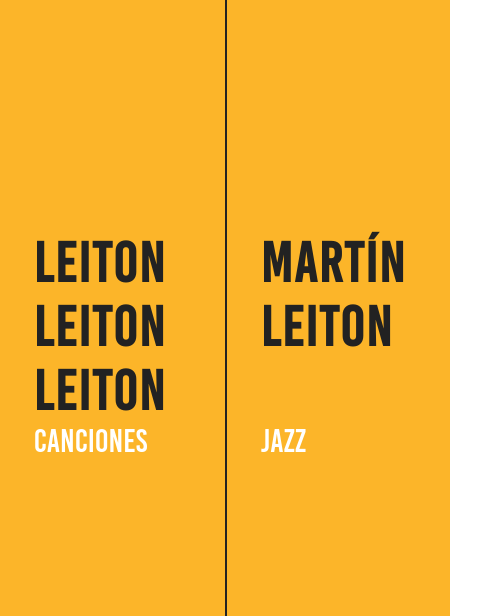
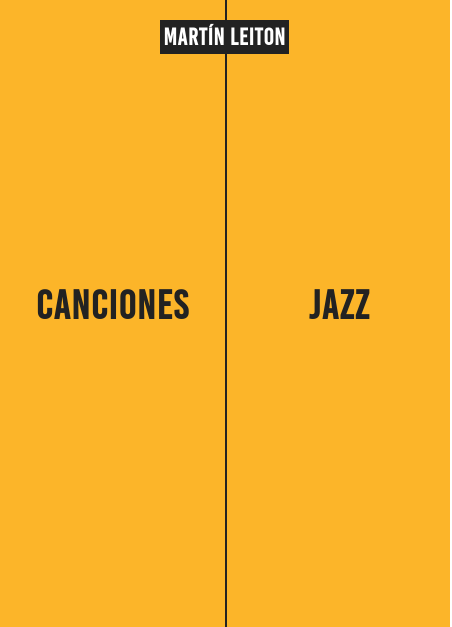
Muestra solo las palabras: canciones y jazz

Changed region(s): [[0.3407, 0.0, 0.8363, 1.0], [0.8982, 0.0, 1.0, 1.0], [0.0619, 0.3701, 0.4336, 0.7403]]

diff --git a/css/main.css b/css/main.css
@@ -2,13 +2,11 @@
 
 @font-face {
   font-family: 'bebas';
-  src: url('../fonts/bebaskai-webfont.woff2') format('woff2'),
-    url('../fonts/bebaskai-webfont.woff') format('woff');
+  src: url('../fonts/bebaskai-webfont.woff') format('woff');
   font-weight: normal;
   font-style: normal;
 }
 
-h1 { font-size: calc(3rem + 2vw); }
 a { text-decoration: none; }
 
 /* Reset */
@@ -19,6 +17,15 @@ html, body {
   border: 0;
   overflow-x: hidden;
   font-family: bebas;
+}
+
+.firma {
+  background-color: #222;
+  color: white;
+  padding: .2rem;
+  position: absolute;
+  top: 0;
+  right: calc(50% - 64px);
 }
 
 /* Layout */
@@ -37,40 +44,39 @@ body div {
   width: 100%;
 }
 
-.canciones-title h1,
-.jazz-title h1 {
-  margin-bottom: 0;
-}
-
 .canciones-title,
-.canciones-link,
-.jazz-title,
-.jazz-link {
-  padding-left: 35%;
+.jazz-title {
+  text-align: center;
+  height: 100vh;
+  width: 100%;
 }
 
-.canciones-title a,
-.canciones-link a,
-.jazz-title a,
-.jazz-link a {
+.canciones-title a h1,
+.jazz-title a h1 {
+  margin-top: 45vh;
+  margin-bottom: 0;
   color: #222;
+  font-size: calc(2rem + 2vw);
+  transition: .5s;
 }
 
-.canciones-link a,
-.jazz-link a {
-  font-size: 2rem;
-  color: white;
+.canciones-title a h1:hover,
+.jazz-title a h1:hover {
+  color: black;
+  font-size: calc(2.5rem + 2vw);
+  transition: .5s;
+}
+
+.canciones-title a h1:hover {
+  transform: rotate(-5deg);
+  transition: .5s;
+}
+
+.jazz-title a h1:hover {
+  transform: rotate(5deg);
+  transition: .5s;
 }
 
 .borde-por-la-izquierda {
   border-left: 2px #222 solid;
-}
-
-@media only screen and (max-width: 768px) {
-  .canciones-title,
-  .canciones-link,
-  .jazz-title,
-  .jazz-link {
-    padding-left: 15%;
-  }
 }

diff --git a/index.html b/index.html
@@ -8,28 +8,21 @@
 	</head>
 	<body>
 
-		<div></div>
-		<div class="borde-por-la-izquierda"></div>
-
 		<div class="canciones-title">
-			<a href="#">
-				<h1>Leiton<br/>Leiton<br/>Leiton</h1>
+			<a href="#" class="accion">
+				<h1>Canciones</h1>
 			</a>
 		</div>
 
 		<div class="jazz-title borde-por-la-izquierda">
-			<a href="#">
-				<h1><br/>Martín<br/>Leiton</h1>
+			<a href="#" class="accion">
+				<h1>Jazz</h1>
 			</a>
 		</div>
 
-		<div class="canciones-link">
-			<a href="#" class="accion">Canciones</a>
-		</div>
-
-		<div class="jazz-link borde-por-la-izquierda">
-			<a href="#" class="accion">Jazz</a>
-		</div>
+		<a href="#" class="accion">
+			<h2 class="firma">Martín Leiton</h2>
+		</a>
 
 	</body>
 </html>
